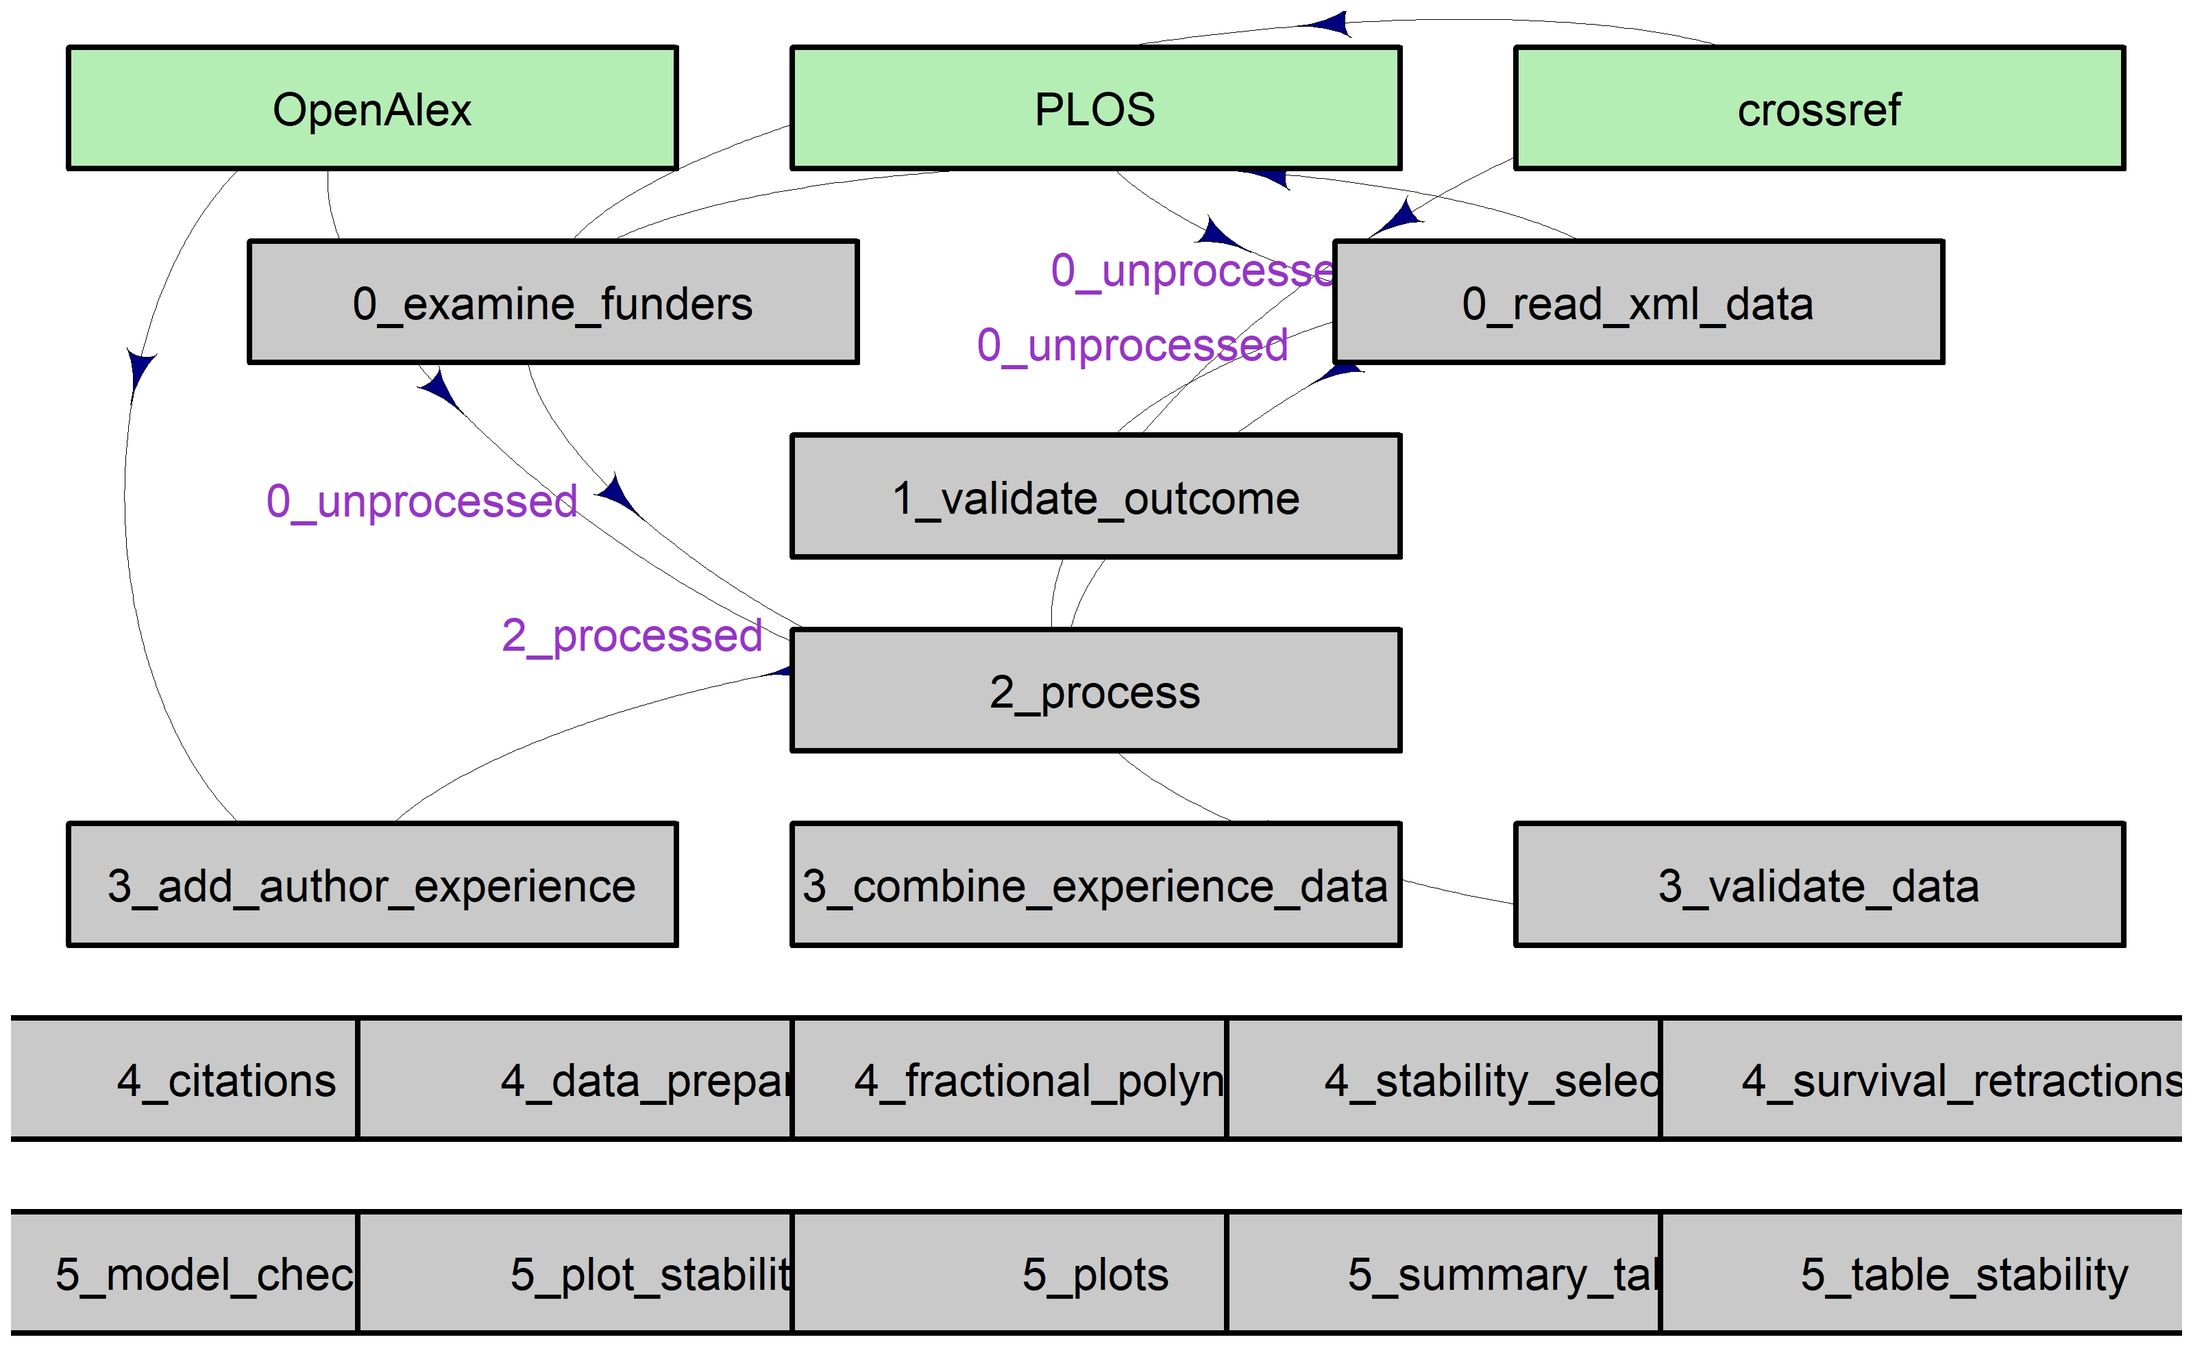
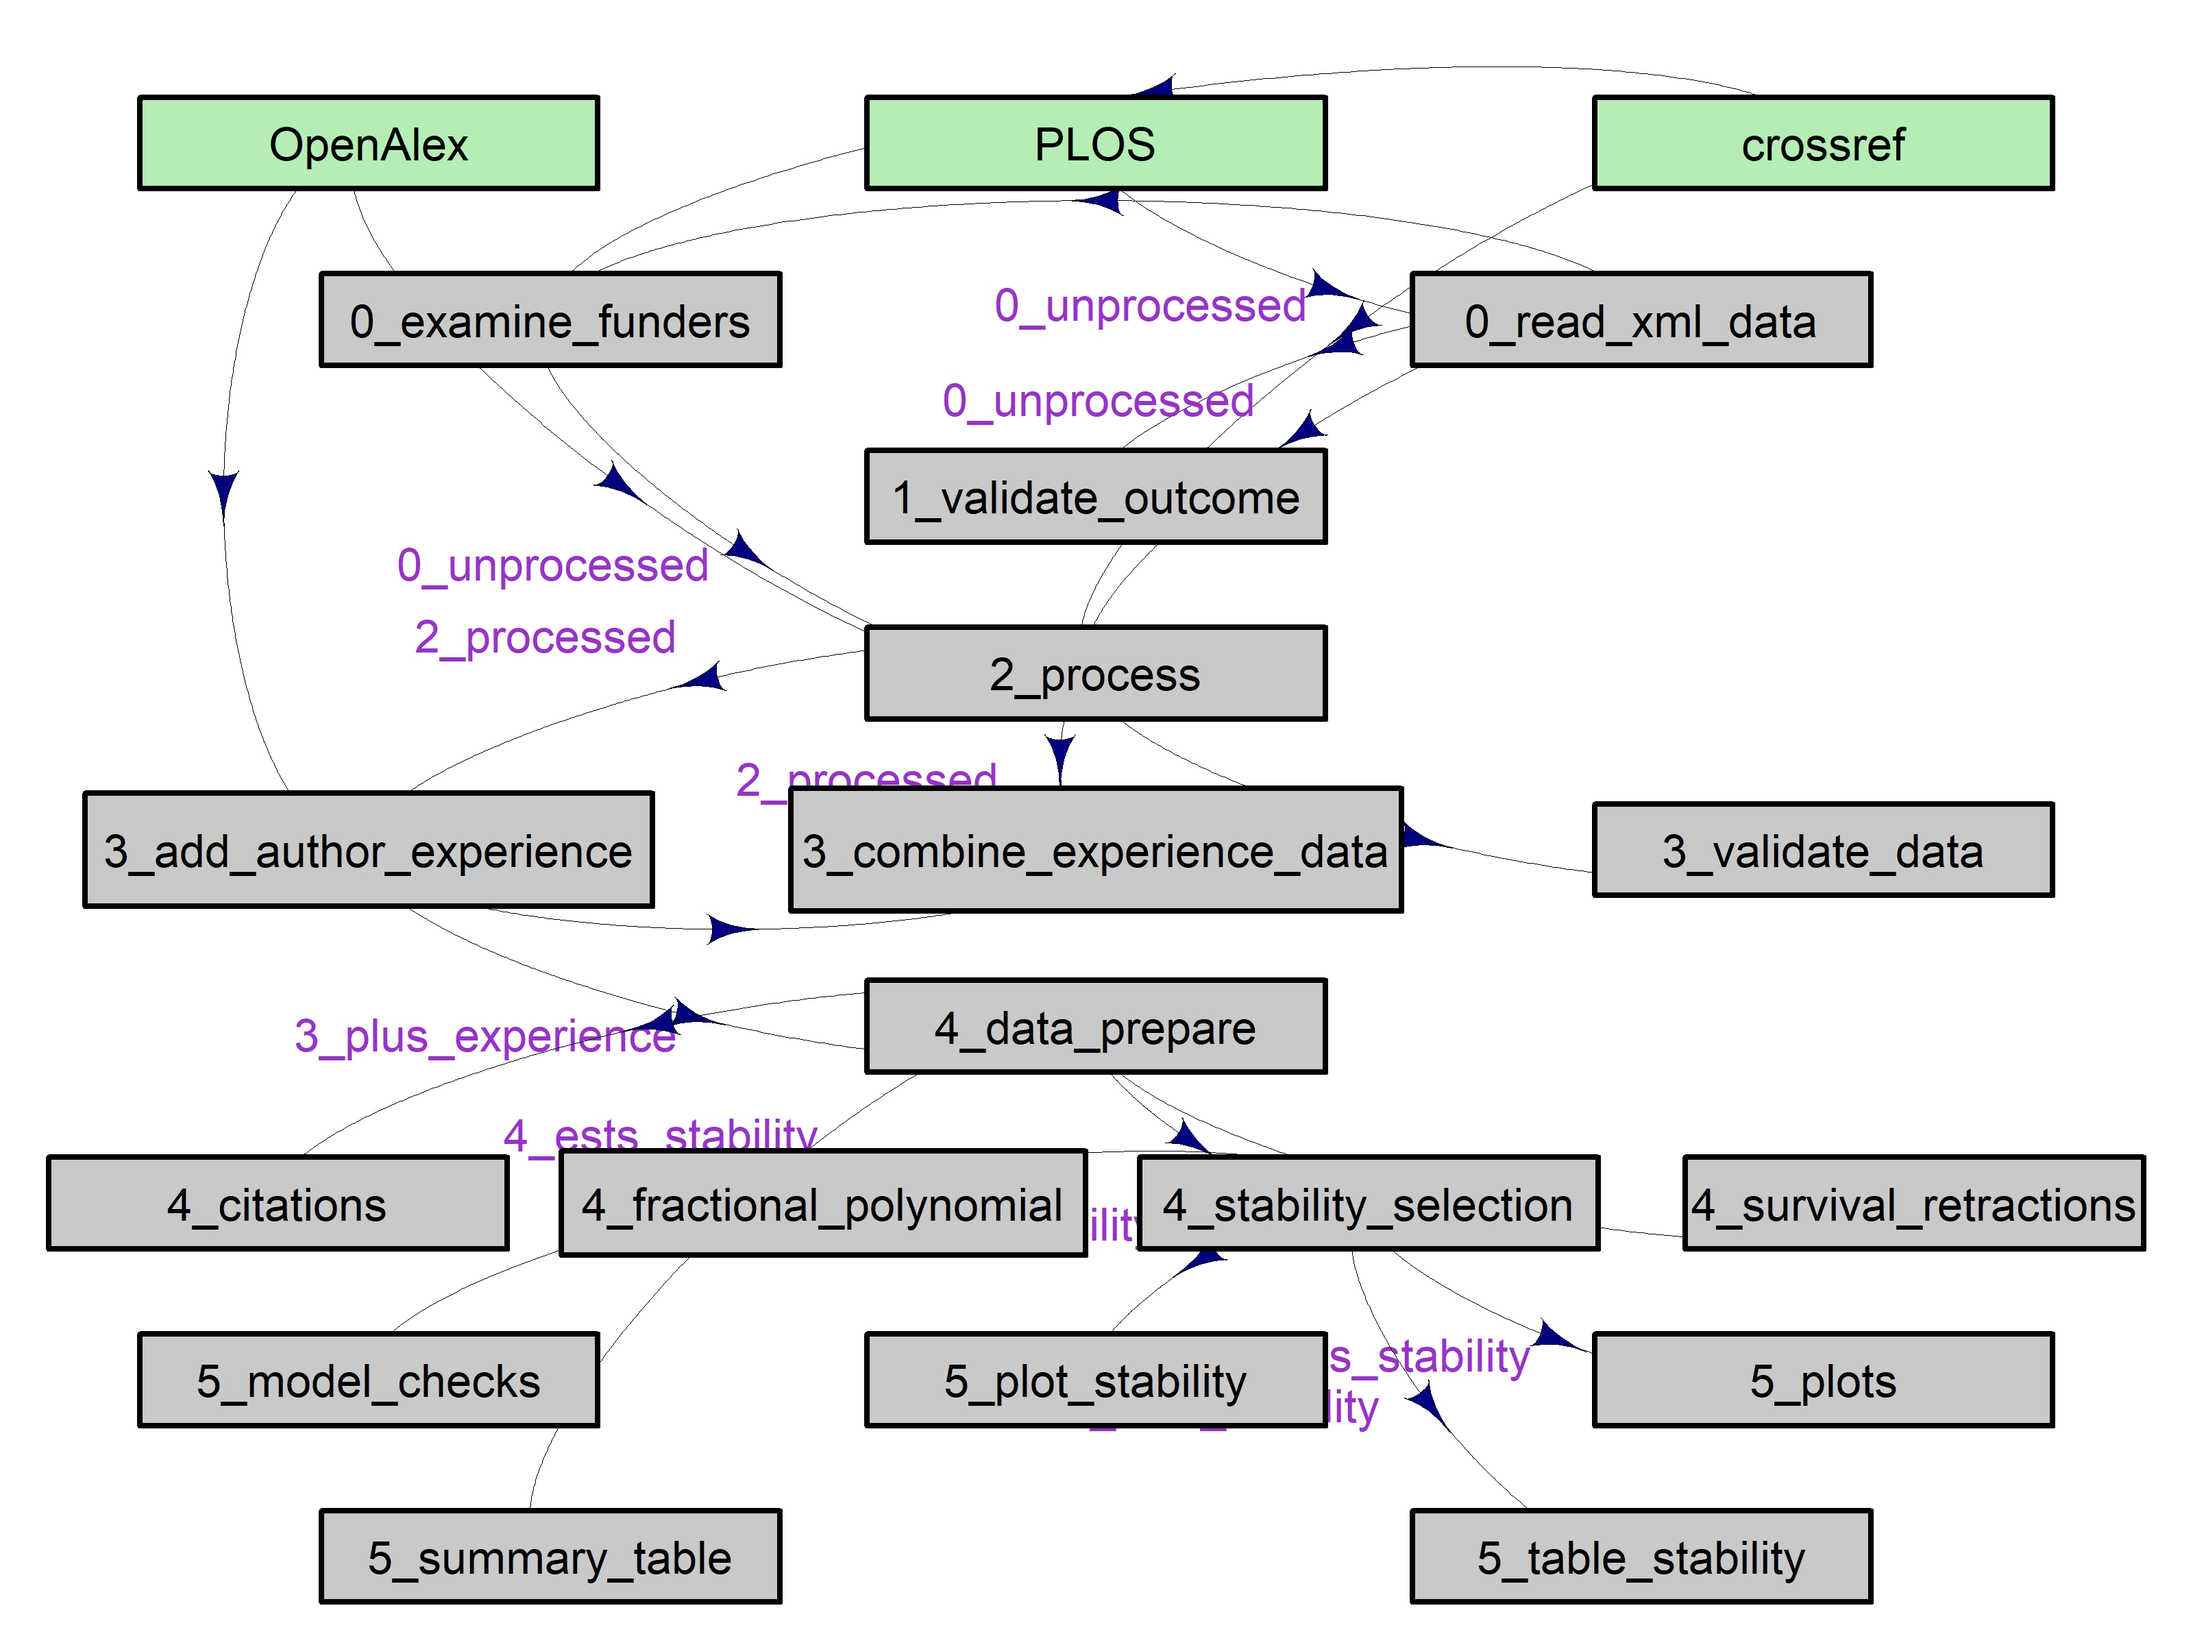
update diagram

diff --git a/README.md b/README.md
@@ -23,6 +23,8 @@ The _R_ files are in order of execution with a prefix of:
 
 ![Network diagram](figures/99_program_network.jpg)
 
+The boxes are programs and the lines between boxes are data sets.
+
 The subfolders are:
 
 * `R` for R functions.
